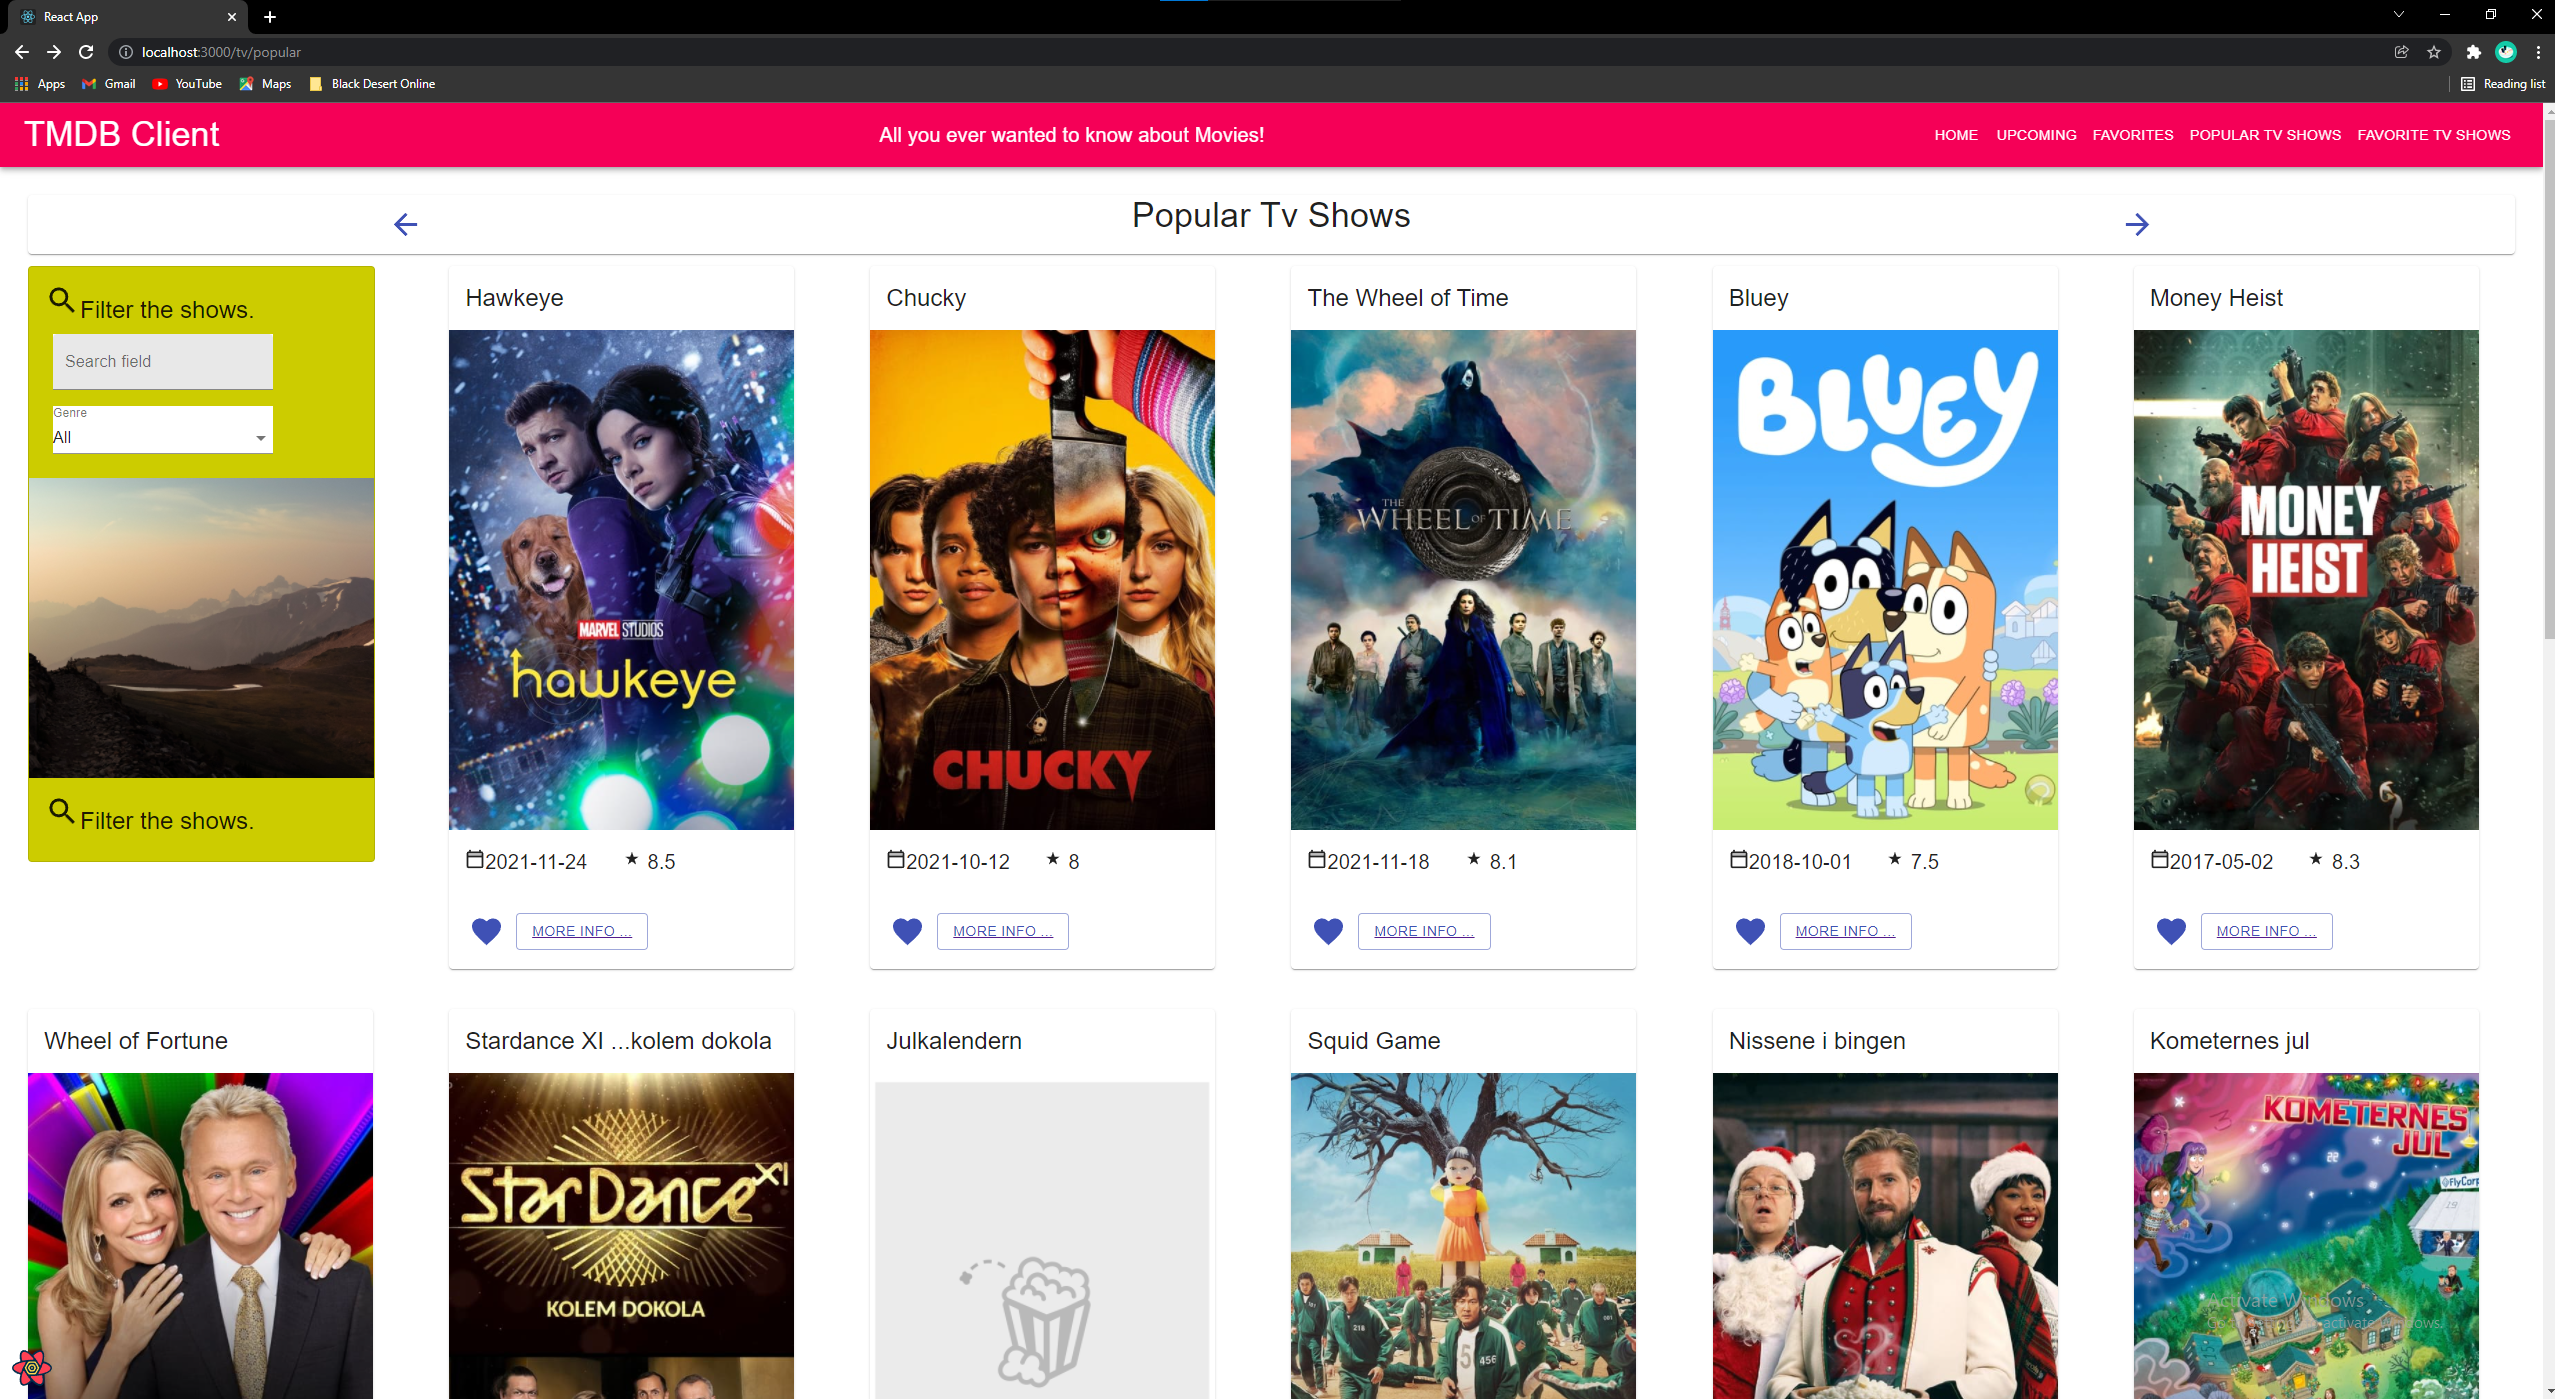
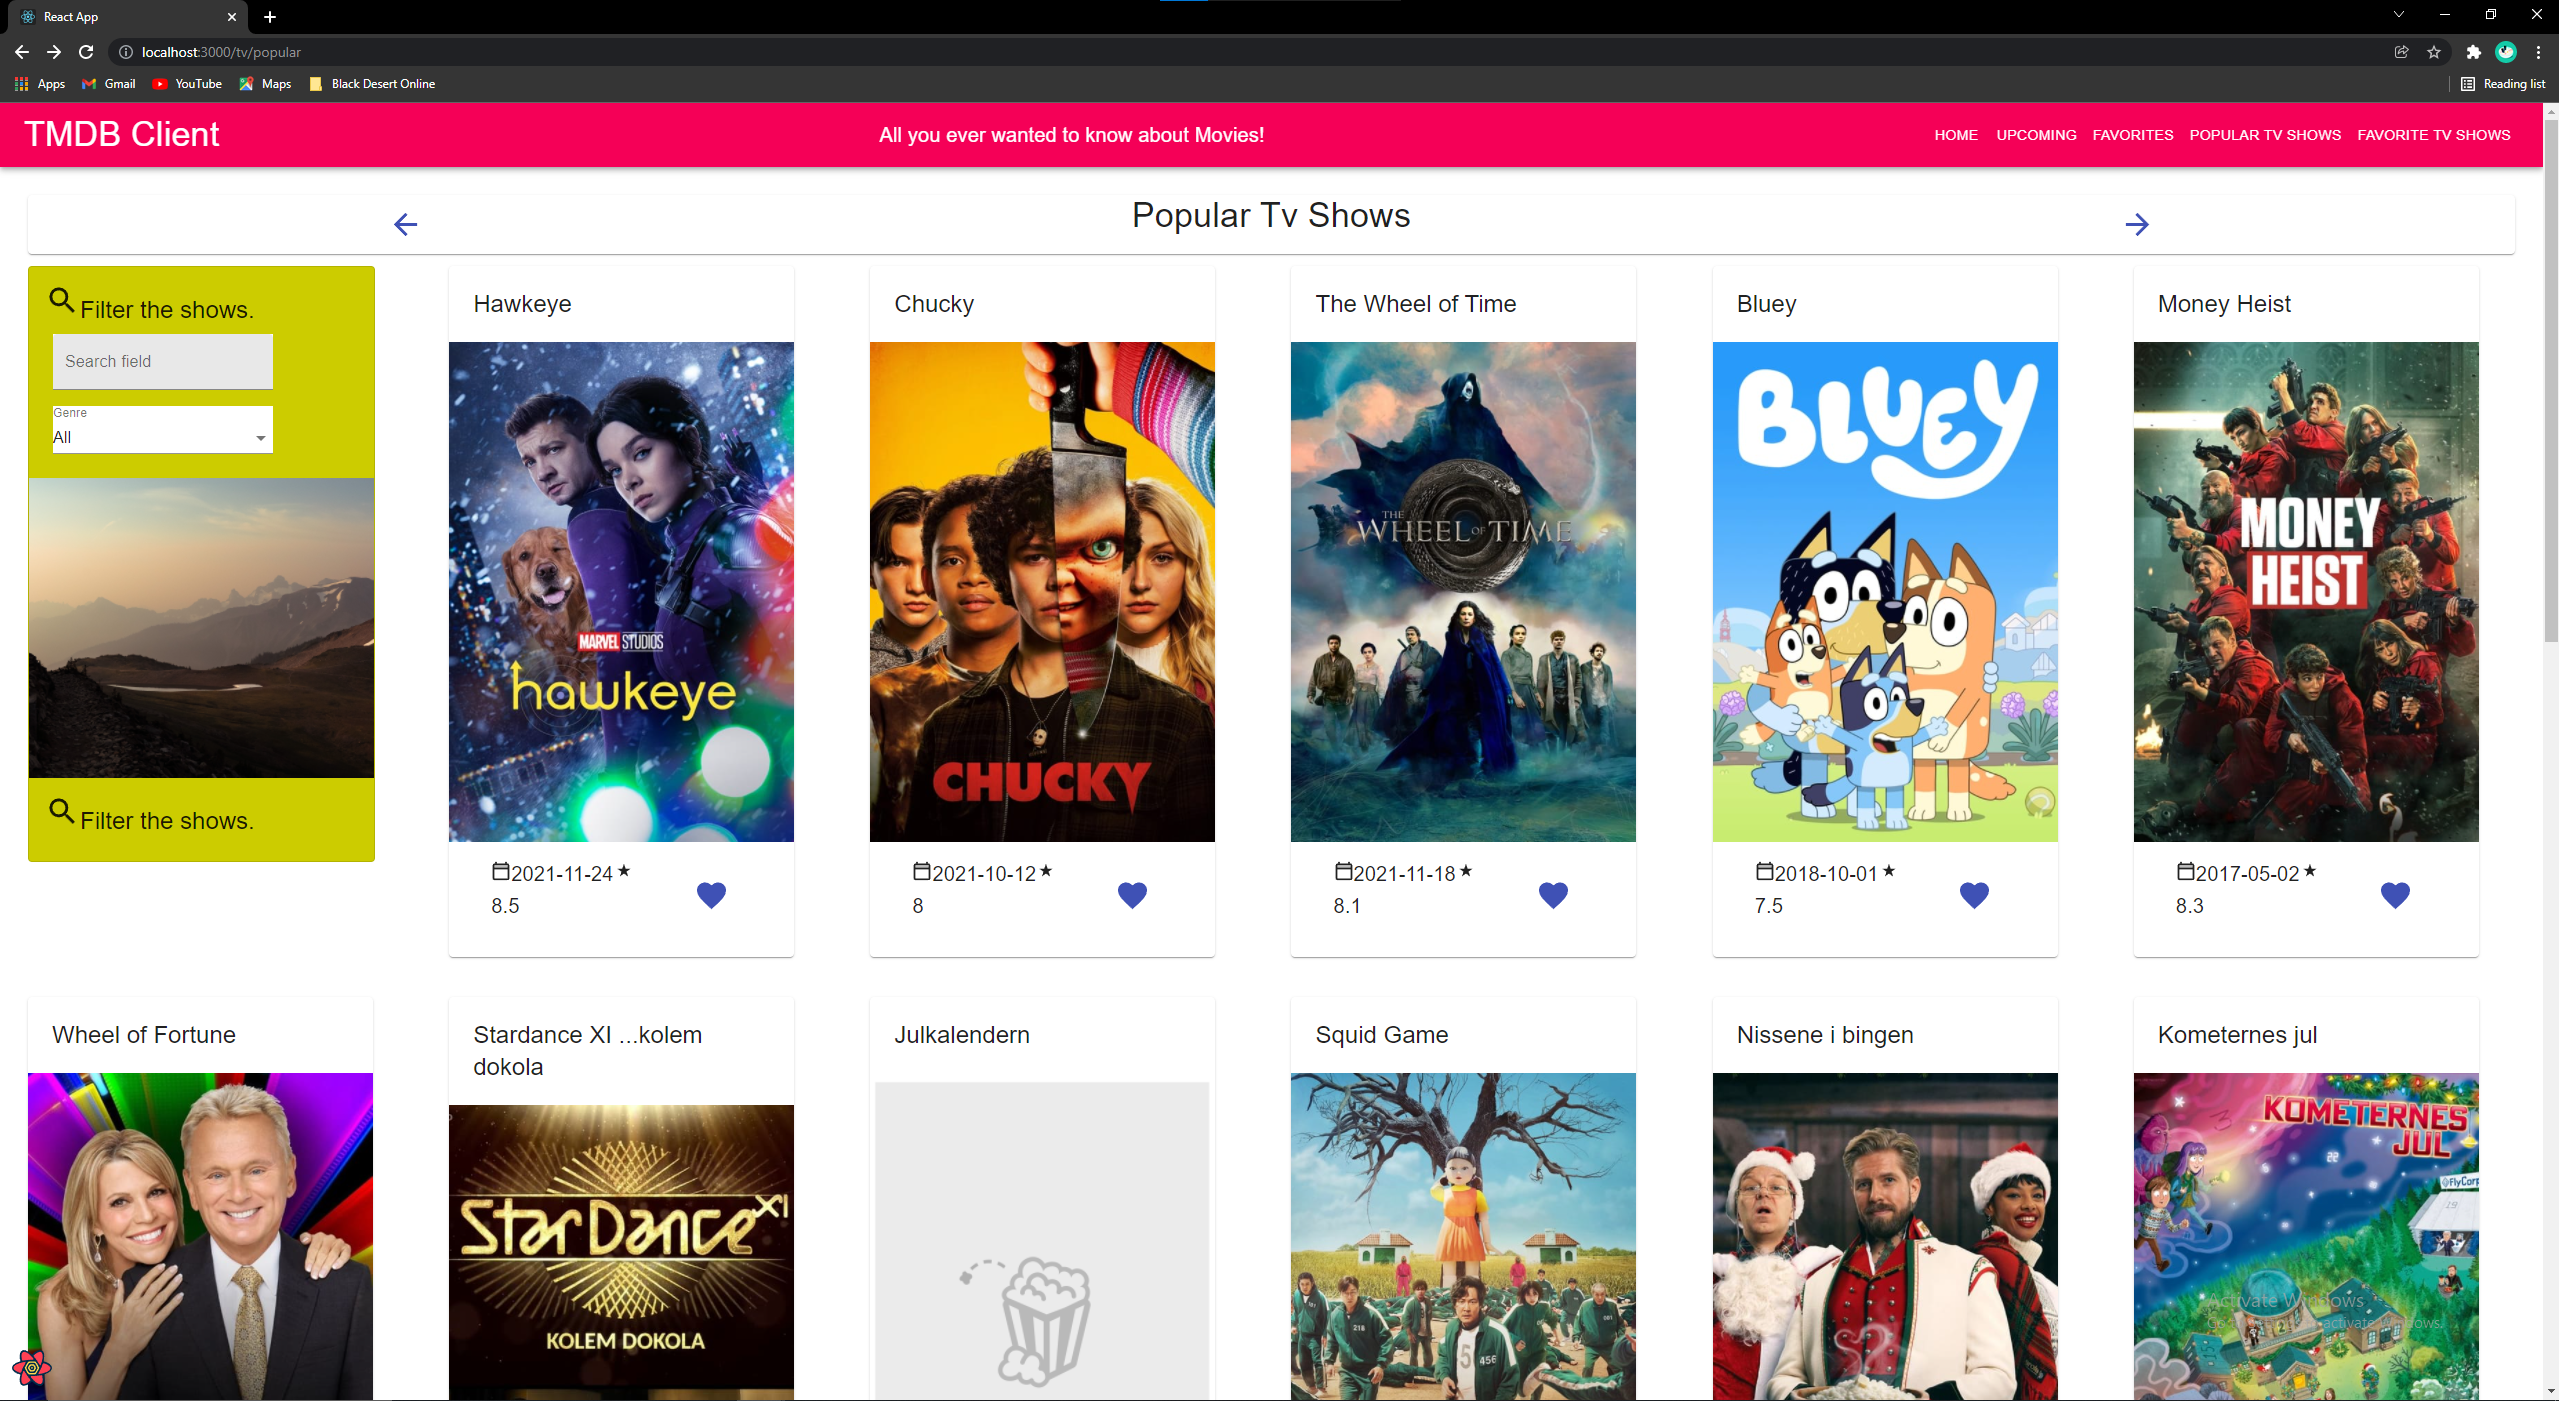
Improved the hyperlinking of movie/show details

diff --git a/src/components/movieCard/index.js b/src/components/movieCard/index.js
@@ -52,9 +52,11 @@ export default function MovieCard({ movie, action }) {
           ) : null
         }
         title = {
-          <Typography variant = "h5" component = "p">
-            {movie.title}{" "}
-          </Typography>
+          <Button style={{textTransform: "none"}} href= {`/movies/${movie.id}`}>
+            <Typography variant = "h5" component = "p">
+              {movie.title}{" "}
+            </Typography>
+          </Button>
         }
         />
         <CardMedia
@@ -67,28 +69,23 @@ export default function MovieCard({ movie, action }) {
         />
         <CardContent>
           <Grid container>
+            <Grid item xs = {1}/>
             <Grid item xs={6}>
               <Typography variant="h6" component="p">
                 <CalendarIcon fontSize="small" />
                 {movie.release_date}
-              </Typography>
-            </Grid>
-            <Grid item xs={6}>
-              <Typography variant="h6" component="p">
                 <StarRateIcon fontSize="small" />
                 {"  "} {movie.vote_average}{" "}
               </Typography>
             </Grid>
+            <Grid item xs = {1}/>
+            <Grid item xs = {4}>
+            <CardActions disableSpacing>
+              {action(movie)}
+            </CardActions>
+            </Grid>
           </Grid>
         </CardContent>
-        <CardActions disableSpacing>
-          {action(movie)}
-          <Link to = {`/movies/${movie.id}`}>
-            <Button variant = "outlined" size = "medium" color = "primary">
-              More Info...
-            </Button>
-          </Link>>
-        </CardActions>
       </Card>
     );
 }

diff --git a/src/components/showCard/index.js b/src/components/showCard/index.js
@@ -52,9 +52,11 @@ export default function ShowCard({ show, action }) {
         ) : null
       } 
       title={
-        <Typography variant="h5" component="p">
+        <Button style={{textTransform: "none"}} href= {`/tv/popular/${show.id}`}>
+        <Typography variant="h5" component="div">
           {show.name}{""}
         </Typography>
+        </Button>
       } 
       />
       <CardMedia
@@ -67,28 +69,24 @@ export default function ShowCard({ show, action }) {
       />
       <CardContent>
         <Grid container>
+          <Grid item xs = {1}/>
           <Grid item xs={6}>
             <Typography variant="h6" component="p">
               <CalendarIcon fontSize="small" />
               {show.first_air_date}
-            </Typography>
-          </Grid>
-          <Grid item xs={6}>
-            <Typography variant="h6" component="p">
               <StarRateIcon fontSize="small" />
-              {"  "} {show.vote_average}{" "}
+              {"  "}{show.vote_average}{" "}
             </Typography>
           </Grid>
+          <Grid item xs={1}/>
+          <Grid item xs={4}>
+            <CardActions disableSpacing>
+              {action(show)}
+            </CardActions>
+          </Grid>
+          <Grid item xs={1}/>
         </Grid>
       </CardContent>
-      <CardActions disableSpacing>
-        {action(show)}
-        <Link to = {`/tv/popular/${show.id}`}>
-        <Button variant="outlined" size="medium" color="primary">
-          More Info ...
-        </Button>
-        </Link>
-      </CardActions>
     </Card>
   );
 }

diff --git a/src/components/cardIcons/addToShowFavorites.js b/src/components/cardIcons/addToShowFavorites.js
@@ -11,7 +11,7 @@ const AddToShowFavoritesIcon = ({ show }) => {
     context.addToShowFavorites(show);
   };
   return (
-    <IconButton aria-label="add to favorites" onClick={handleAddToFavorites}>
+    <IconButton aria-label="add to favorites" onClick={handleAddToFavorites} size="large">
       <FavoriteIcon color="primary" fontSize="large" />
     </IconButton>
   );

diff --git a/README.md b/README.md
@@ -11,7 +11,7 @@ Discover Movies
 ================
 View the current popular movies and filter them by genre.
 
-View the details of each movie in the movie list by pressing "More Info...", this takes the user to a new page.
+View the details of each movie in the movie list by pressing the title, this takes the user to a new page.
 
 On the movie page, the user can:
     Access the movies homepage by pressing on the house icon beside the name
@@ -54,6 +54,7 @@ The Popular Tv Shows page shares all of its funtionality with the discover movie
 + Show review form page
 + Parameterized urls for each route
 + Change useQuery statements in existing files to specify movie relevant information ("images" => "movieImages") and added useQuery to relevant show pages
++ Changed the link for move/show details from a "ShowMore..." button to a hyperlinked title. 
 
 ## Setup requirements.
 
@@ -100,6 +101,10 @@ The Popular Tv Shows page shares all of its funtionality with the discover movie
 ![ ](./src/images/ShowWriteReview.png)
 
 >Allows the user to fill out required fields to leave a review on the show, the review doesn't get stored.
+
+![ ](./src/images/discoverMovies.png)
+
+>Changed "MoreInfo..." button to a hyperlinked title button
 
 ### Routing.
 
